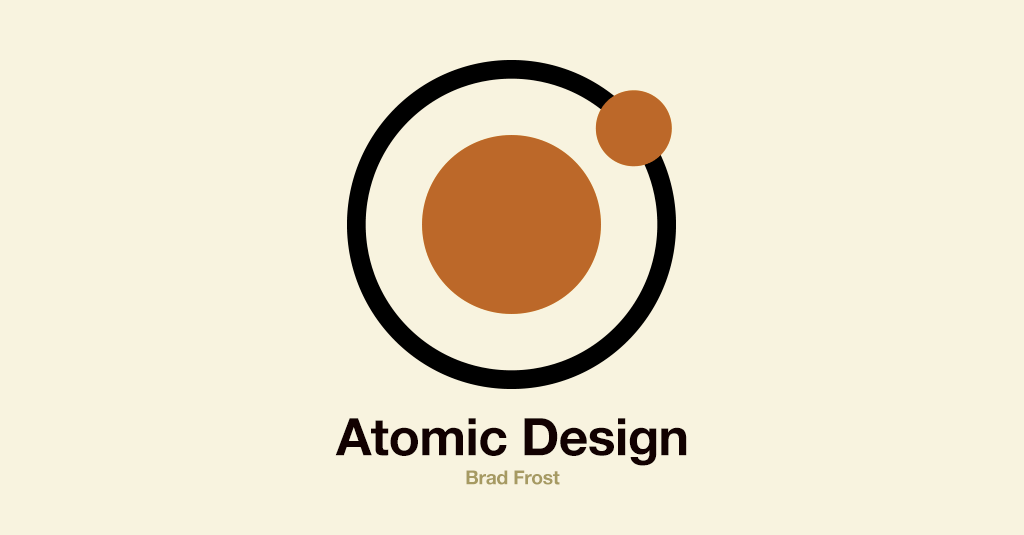
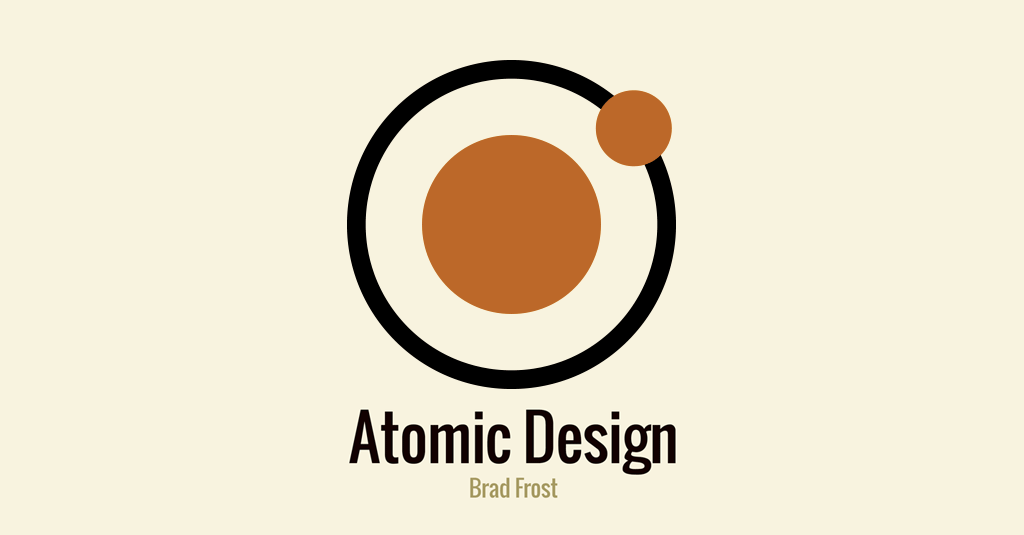
Update Social Media Card

Changed region(s): [[0.3125, 0.7477, 0.6875, 0.9271]]

diff --git a/_includes/head.html b/_includes/head.html
@@ -13,7 +13,7 @@
 
 <!-- Schema.org markup for Google+ -->
 <meta itemprop="name" content="{% if page.title %}{{ page.title }} | {{ site.title }}{% else %}{{ site.title }}{% endif %}">
-<meta itemprop="image" content="http://atomicdesign.bradfrost.com/images/book-cover-thumb.png">
+<meta itemprop="image" content="http://atomicdesign.bradfrost.com/images/social-card.jpg">
 <meta itemprop="description" content="{% if page.excerpt %}{{ page.excerpt | strip_html | strip_newlines | truncate: 160 }}{% else %}{{ site.description }}{% endif %}">
 
 <!-- Twitter Card data -->
@@ -22,11 +22,11 @@
 <meta name="twitter:description" content="{% if page.excerpt %}{{ page.excerpt | strip_html | strip_newlines | truncate: 160 }}{% else %}{{ site.description }}{% endif %}">
 <meta name="twitter:creator" content="@brad_frost">
 <!-- Twitter summary card with large image must be at least 280x150px -->
-<meta name="twitter:image:src" content="http://atomicdesign.bradfrost.com/images/book-cover-thumb.png/images/book-cover-thumb.png">
+<meta name="twitter:image:src" content="http://atomicdesign.bradfrost.com/images/social-card.jpg">
 
 <!-- Open Graph data -->
 <meta property="og:title" content="{% if page.title %}{{ page.title }} | {{ site.title }}{% else %}{{ site.title }}{% endif %}" />
 <meta property="og:url" content="http://atomicdesign.bradfrost.com{{ page.url }}" />
-<meta property="og:image" content="http://atomicdesign.bradfrost.com/images/book-cover-thumb.png/images/book-cover-thumb.png" />
+<meta property="og:image" content="http://atomicdesign.bradfrost.com/images/social-card.jpg" />
 <meta property="og:description" content="{% if page.excerpt %}{{ page.excerpt | strip_html | strip_newlines | truncate: 160 }}{% else %}{{ site.description }}{% endif %}" />
 </head>
